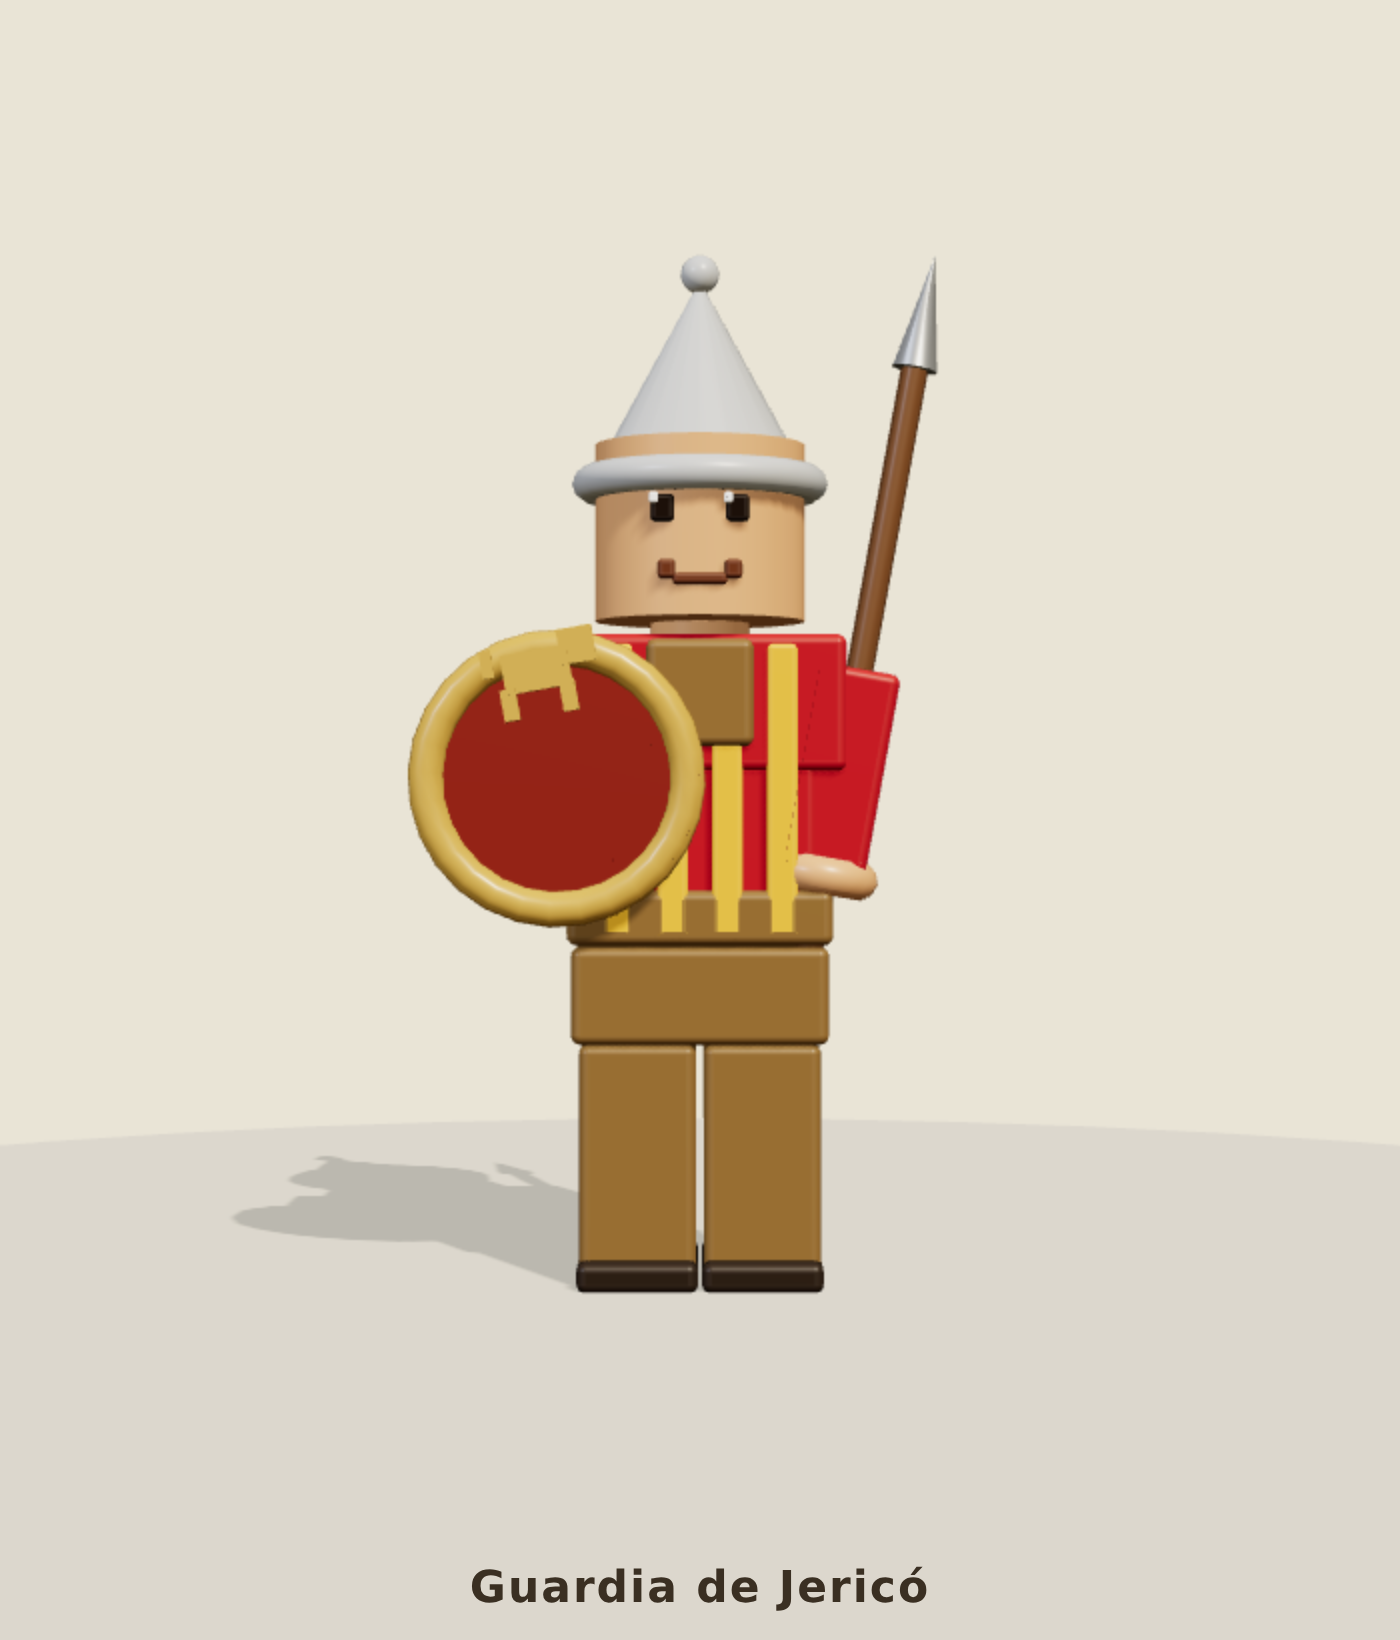
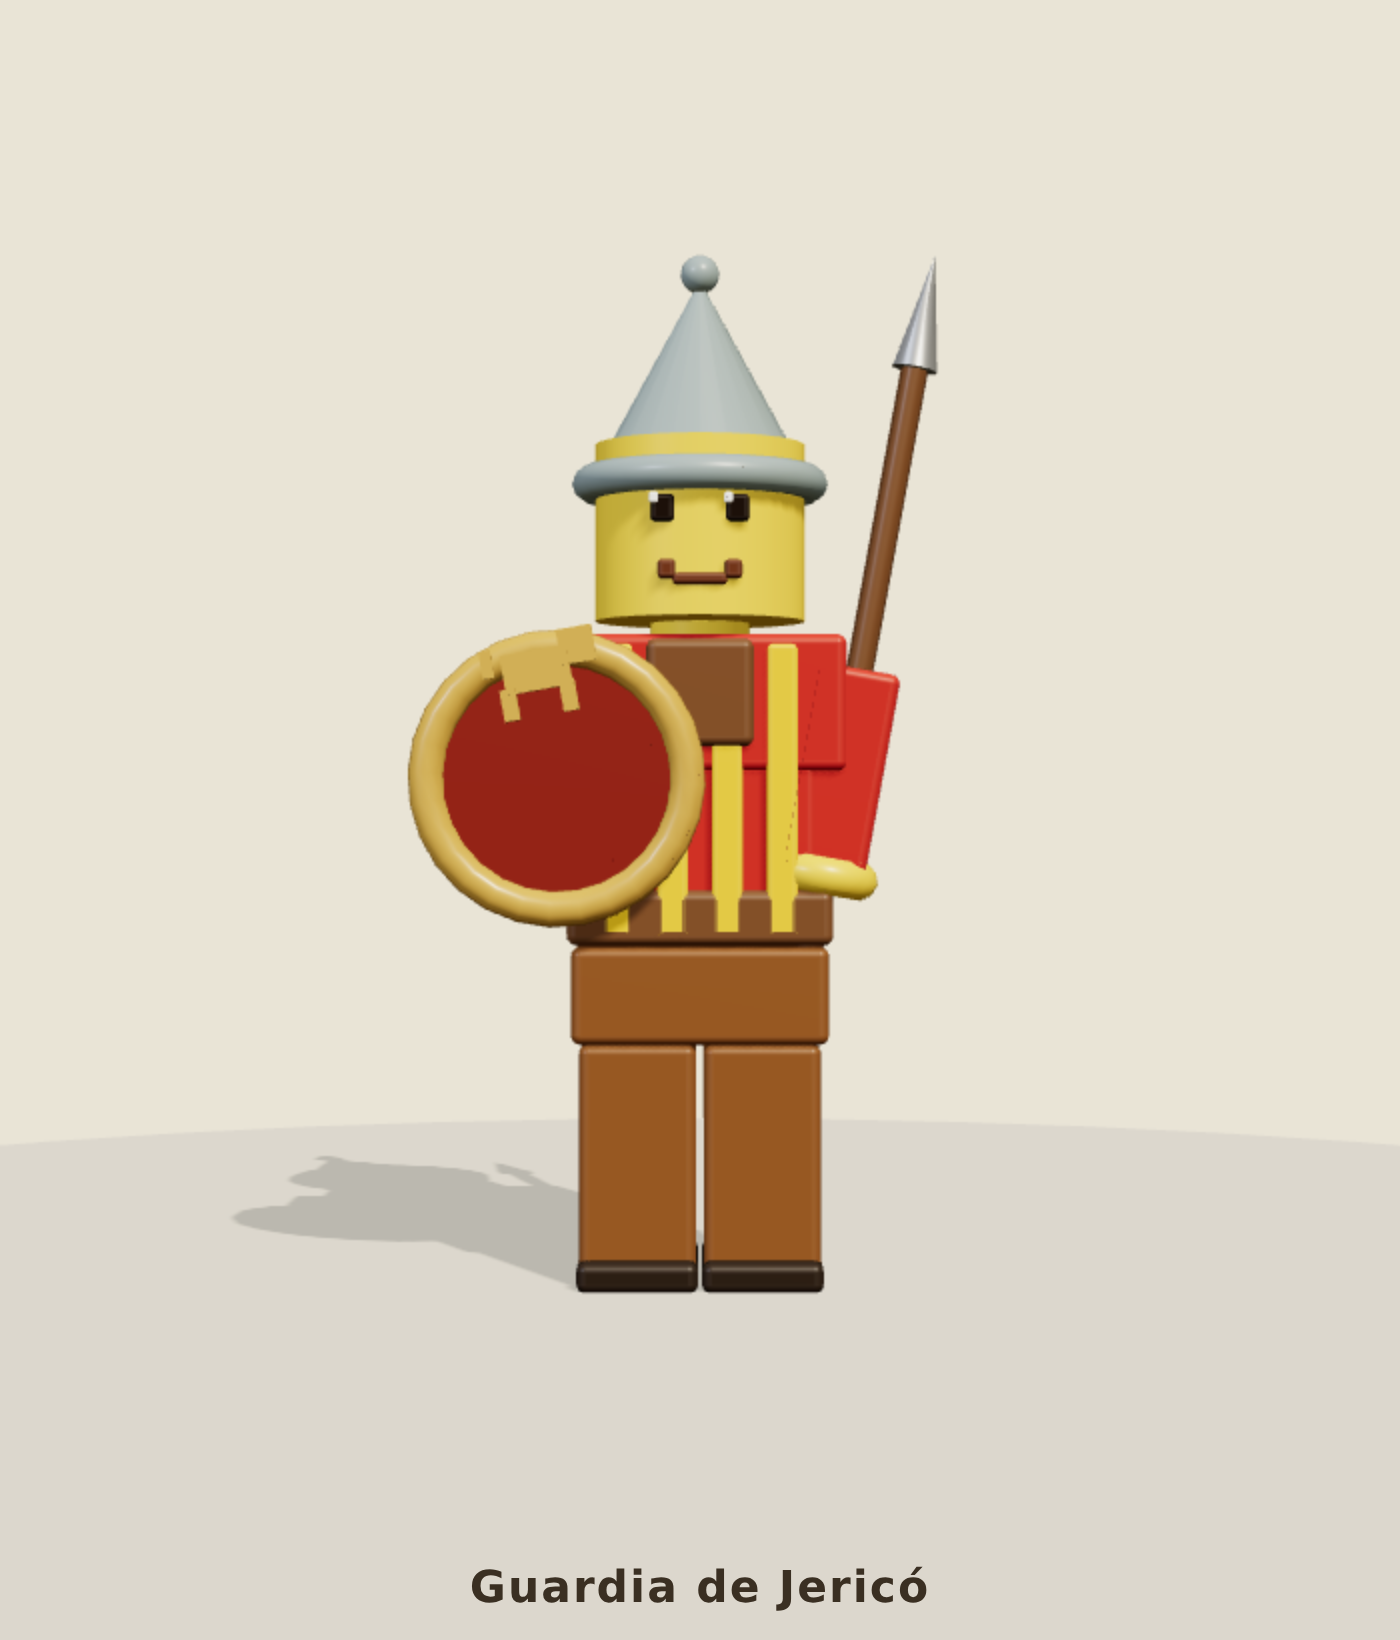
Personajes: pase de fidelidad con la biblia de la peli (HEX + frames)
Ajusta cada minifigura a referencias/personajes.md y los fotogramas:
- Yehoshúa: AZUL dominante (chaleco/pantalón azul, cinturón marrón), barba
  larga blanca-canosa, turbante cobalto con franja blanca. (Antes iba marrón.)
- Rahab: gris claro #D5D8DC + pelo plateado #E5E7E9; añade su CORDÓN ROJO
  CARMESÍ (#E74C3C) en banda diagonal (prop clave).
- Guardia común: rayas rojas/amarillas (#C0392B/#F1C40F), casco plateado
  #95A5A6, grebas marrones. Escudo con león + lanza.
- Jefe de guardia: armadura de bronce + CAPA NEGRA + penacho de plumas +
  bigote + ALABARDA DORADA (antes llevaba rayas por error).
- Sacerdote: turbante blanco (no mitra), barba negra, pectoral multicolor,
  SHOFAR DORADO.
- Beduino: turbante beige #F5CBA7, túnica oliva #7D6608, pantalones marrones.
- Rabino: traje azul marino #2C3E50 + camisa blanca y corbata azul, gafas
  cuadradas negras, barba gris #7F8C8D, kipá negra.
- Espía 2: gris asfalto #566573. Piel unificada #F4D03F.

Campos de skin nuevos: cord, tie, spearGold. No cambia la lógica del juego.

Claude-Session: https://claude.ai/code/session_01Fgry2hnwitkQ2wKLYbkPgZ

Changed region(s): [[0.3993, 0.1555, 0.5836, 0.4665], [0.43, 0.4976, 0.645, 0.5909]]

diff --git a/mundo-ladrillos/src/characters/MinifigureFactory.ts b/mundo-ladrillos/src/characters/MinifigureFactory.ts
@@ -55,24 +55,26 @@ export interface MinifigureSkin {
   lips?: number;              // color de los labios (boca femenina)
   skirt?: number;             // color de la falda / vestido acampanado
   skirtLong?: boolean;        // túnica larga hasta los tobillos (más humilde/época)
+  cord?: number;              // cordón/faja en banda diagonal (rojo carmesí de Rahab)
+  tie?: number;               // corbata sobre camisa blanca (rabino de traje)
+  spearGold?: boolean;        // lanza/alabarda dorada (jefe de guardia)
 }
 
-/** Yehoshúa: turbante cobalto con franjas blancas, barba blanca larga,
- *  túnica marrón claro, capa azul y bastón de madera. */
+/** Yehoshúa (según frame): AZUL dominante — chaleco/pantalón azul, cinturón
+ *  marrón, barba larga blanca-canosa, turbante cobalto y bastón. */
 export const YOSHUA_SKIN: MinifigureSkin = {
-  head: 0xf2c141,
-  torso: 0xbe9c6a,       // túnica marrón claro
-  belt: 0x6e4a2c,
-  legs: 0x8a6a3e,
-  arms: 0xbe9c6a,
-  hands: 0xf2c141,
-  headwear: 0x1c4f9c,    // turbante azul cobalto
+  head: 0xf4d03f,
+  torso: 0x1f618d,       // chaleco/túnica azul
+  belt: 0x6e4a2c,        // cinturón cuero oscuro
+  legs: 0x1f618d,        // pantalón azul
+  arms: 0x2c7bb0,        // mangas azul algo más claro
+  hands: 0xf4d03f,
+  headwear: 0x2980b9,    // turbante azul cobalto
   headStyle: 'turban',
-  turbanStripe: 0xf4efe4,
-  beard: 0xe8e4da,
+  turbanStripe: 0xf4efe4, // franjas blancas
+  beard: 0xbdc3c7,       // barba larga blanca/canosa
   beardStyle: 'long',
-  cape: 0x22467e,        // capa azul
-  emotion: 'happy',
+  emotion: 'neutral',    // líder mayor, solemne
   accessory: 'staff'
 };
 
@@ -91,17 +93,17 @@ export const SPY_SKIN: MinifigureSkin = {
   accessory: 'sword'
 };
 
-/** Espía 2 (ninja gris azulado): compañero. */
+/** Espía 2 (ninja gris asfalto #566573): compañero. */
 export const SPY2_SKIN: MinifigureSkin = {
-  head: 0xf2c141,
-  torso: 0x6b7684,
-  belt: 0x4a525e,
-  legs: 0x5a6472,
-  arms: 0x6b7684,
-  hands: 0xf2c141,
-  headwear: 0x545e6c,   // máscara gris azulada
+  head: 0xf4d03f,
+  torso: 0x566573,
+  belt: 0x424e59,
+  legs: 0x4c5964,
+  arms: 0x566573,
+  hands: 0xf4d03f,
+  headwear: 0x4b5560,   // máscara gris asfalto
   headStyle: 'ninja',
-  straps: 0x9aa7b5,
+  straps: 0x8b98a6,
   emotion: 'happy',
   accessory: 'sword'
 };
@@ -109,34 +111,35 @@ export const SPY2_SKIN: MinifigureSkin = {
 /** Rahab: mujer de rasgos suaves; melena plateada larga, vestido humilde con
  *  falda acampanada, cara amable. */
 export const RAHAB_SKIN: MinifigureSkin = {
-  head: 0xf4c98f,
-  torso: 0xd0d0d6,       // vestido gris claro humilde (fiel al brief)
-  belt: 0xbdbdc4,
-  legs: 0xcac9d0,
-  arms: 0xd0d0d6,
-  hands: 0xf4c98f,
-  headwear: 0xe2e5ec,    // pelo plateado (distinto del vestido)
+  head: 0xf4d03f,
+  torso: 0xd5d8dc,       // vestido gris claro humilde (#D5D8DC)
+  belt: 0xc2c5ca,
+  legs: 0xd5d8dc,
+  arms: 0xd5d8dc,
+  hands: 0xf4d03f,
+  headwear: 0xe5e7e9,    // pelo largo plateado (#E5E7E9)
   headStyle: 'longHair',
   emotion: 'happy',
   feminine: true,
   lips: 0xc26a63,
-  skirt: 0xd0d0d6,       // túnica larga hasta los tobillos
+  skirt: 0xd5d8dc,       // túnica larga
   skirtLong: true,
+  cord: 0xe74c3c,        // cordón rojo carmesí (prop clave)
   accessory: 'none'
 };
 
 /** Guardia de Jericó: casco cónico plateado, túnica de rayas rojas/amarillas,
  *  escudo redondo con león y lanza. */
 export const GUARD_SKIN: MinifigureSkin = {
-  head: 0xe0a878,
-  torso: 0xb62b2b,       // rojo
-  belt: 0x8a6a3a,
-  legs: 0x8a6a3a,
-  arms: 0xb62b2b,
-  hands: 0xe0a878,
-  headwear: 0xbfc2c4,    // casco plateado
+  head: 0xf4d03f,
+  torso: 0xc0392b,       // rojo (#C0392B)
+  belt: 0x7a5433,
+  legs: 0x8a5a2c,        // grebas de cuero marrón
+  arms: 0xc0392b,
+  hands: 0xf4d03f,
+  headwear: 0x95a5a6,    // casco plateado (#95A5A6)
   headStyle: 'coneHelmet',
-  tunicStripe: 0xf0b429, // rayas amarillas
+  tunicStripe: 0xf1c40f, // rayas amarillas (#F1C40F)
   emotion: 'stern',
   shield: 0xcaa14a,
   accessory: 'spear'
@@ -144,68 +147,70 @@ export const GUARD_SKIN: MinifigureSkin = {
 
 /** Jefe de guardia: casco con plumas negras, bigote marrón, rayas rojas/amarillas. */
 export const GUARD_CHIEF_SKIN: MinifigureSkin = {
-  head: 0xd89a68,
-  torso: 0xb62b2b,
-  belt: 0x5a3f22,
-  legs: 0x6b675e,
-  arms: 0xb62b2b,
-  hands: 0xd89a68,
+  head: 0xf4d03f,
+  torso: 0x87663c,       // peto de metal reforzado (bronce)
+  belt: 0x4a3a26,
+  legs: 0x4a4038,
+  arms: 0x87663c,
+  hands: 0xf4d03f,
   headwear: 0xa8adb0,    // casco metálico
   headStyle: 'plumeHelmet',
-  tunicStripe: 0xf0b429,
-  mustache: 0x5a3f22,    // bigote marrón
+  cape: 0x161616,        // capa negra
+  mustache: 0x3a2a1a,    // bigote marrón oscuro
   emotion: 'stern',
+  spearGold: true,       // alabarda dorada
   accessory: 'spear'
 };
 
 /** Sacerdote (Cohen): túnica blanca con pectoral, mitra blanca, barba negra, shofar. */
 export const PRIEST_SKIN: MinifigureSkin = {
-  head: 0xefc08a,
+  head: 0xf4d03f,
   torso: 0xf4efe4,       // túnica blanca
-  belt: 0xcaa14a,
+  belt: 0xe6e0d2,
   legs: 0xece7dc,
   arms: 0xf4efe4,
-  hands: 0xefc08a,
-  headwear: 0xf7f3ea,    // mitra blanca
-  headStyle: 'mitre',
-  beard: 0x2a221c,       // barba negra
+  hands: 0xf4d03f,
+  headwear: 0xf7f3ea,    // turbante sacerdotal blanco
+  headStyle: 'turban',
+  beard: 0x2a221c,       // barba negra poblada
   beardStyle: 'long',
-  pectoral: 0xcaa14a,
+  pectoral: 0xcaa14a,    // pectoral multicolor
   emotion: 'neutral',
-  accessory: 'shofar'
+  accessory: 'shofar'    // shofar dorado
 };
 
 /** Beduino cómico: turbante beige, túnica verde oliva con remiendos, barba negra,
  *  cejas de preocupación. */
 export const BEDOUIN_SKIN: MinifigureSkin = {
-  head: 0xd7a06a,
-  torso: 0x6b7233,       // verde oliva
-  belt: 0x4a4a24,
-  legs: 0x5a5a2c,
-  arms: 0x6b7233,
-  hands: 0xd7a06a,
-  headwear: 0xd9c6a0,    // turbante beige
+  head: 0xf4d03f,
+  torso: 0x7d6608,       // verde oliva descolorido (#7D6608)
+  belt: 0x5a4028,
+  legs: 0x5a4028,        // pantalones marrones
+  arms: 0x7d6608,
+  hands: 0xf4d03f,
+  headwear: 0xf5cba7,    // turbante beige/arena (#F5CBA7)
   headStyle: 'turban',
-  beard: 0x2a221c,       // barba negra
+  beard: 0x2a221c,       // barba negra desaliñada
   beardStyle: 'short',
-  patches: 0x8a7a3a,     // remiendos
-  emotion: 'worried',
+  patches: 0x9a7a3a,     // remiendos
+  emotion: 'worried',    // cejas de preocupación
   accessory: 'none'
 };
 
 /** Rabino director: traje azul marino, gafas negras cuadradas, barba gris corta, kipá. */
 export const RABBI_SKIN: MinifigureSkin = {
-  head: 0xe8b988,
-  torso: 0x1c2a4a,       // azul marino
-  belt: 0x141e33,
-  legs: 0x1c2a4a,
-  arms: 0x1c2a4a,
-  hands: 0xe8b988,
-  headwear: 0x141a2c,    // kipá oscura
+  head: 0xf4d03f,
+  torso: 0x2c3e50,       // traje azul marino (#2C3E50)
+  belt: 0x22303f,
+  legs: 0x2c3e50,
+  arms: 0x2c3e50,
+  hands: 0xf4d03f,
+  headwear: 0x14140f,    // kipá negra
   headStyle: 'kippah',
-  beard: 0x9a958c,       // barba gris corta
+  beard: 0x7f8c8d,       // barba gris corta (#7F8C8D)
   beardStyle: 'short',
-  glasses: 0x14140f,     // gafas negras
+  glasses: 0x14140f,     // gafas negras cuadradas
+  tie: 0x2b4a7a,         // camisa blanca + corbata azul
   emotion: 'happy',
   accessory: 'none'
 };
@@ -351,6 +356,21 @@ export class Minifigure {
     this.root.add(this.box(1.5, 0.7, 0.86, s.torso, 0, 3.0, 0)); // hombros anchos
     this.root.add(this.box(1.36, 0.28, 0.9, s.belt, 0, 1.9, 0)); // cinturón
     this.root.add(this.box(0.55, 0.55, 0.2, s.belt, 0, 3.05, 0.38)); // cuello en V
+
+    // Camisa blanca + corbata (rabino de traje)
+    if (s.tie !== undefined) {
+      this.root.add(this.box(0.5, 0.78, 0.16, 0xf4efe4, 0, 2.86, 0.4)); // camisa
+      this.root.add(this.box(0.14, 0.62, 0.06, s.tie, 0, 2.82, 0.49));  // corbata
+    }
+
+    // Cordón/faja en banda diagonal (cordón rojo carmesí de Rahab)
+    if (s.cord !== undefined) {
+      const band = this.box(0.15, 1.9, 0.2, s.cord, 0.06, 2.5, 0.42);
+      band.rotation.z = 0.35;
+      this.root.add(band);
+      const loop = new THREE.TorusGeometry(0.15, 0.05, 8, 16);
+      this.root.add(this.mesh(loop, s.cord, 0.44, 1.72, 0.42)); // rollo colgando en la cadera
+    }
 
     // Falda / vestido acampanado (rasgo fem): tronco de cono sobre la cadera.
     // Las piernas asoman y siguen balanceándose por debajo del bajo.
@@ -580,7 +600,7 @@ export class Minifigure {
     const acc = s.accessory ?? 'sword';
     if (acc === 'sword') this.addSword();
     else if (acc === 'staff') this.addStaff();
-    else if (acc === 'spear') this.addSpear();
+    else if (acc === 'spear') this.addSpear(s.spearGold === true);
     else if (acc === 'shofar') this.addShofar();
     if (s.shield !== undefined) this.addShield(s.shield);
   }
@@ -608,19 +628,27 @@ export class Minifigure {
     this.armR.add(shaft, knob);
   }
 
-  /** Lanza de la guardia en la mano derecha. */
-  private addSpear(): void {
-    const shaft = new THREE.Mesh(new THREE.CylinderGeometry(0.07, 0.07, 4.0, 8), this.plastic.get(0x7a5433));
+  /** Lanza de la guardia (o alabarda DORADA del jefe) en la mano derecha. */
+  private addSpear(gold = false): void {
+    const shaftCol = gold ? 0x8a6a2a : 0x7a5433;
+    const shaft = new THREE.Mesh(new THREE.CylinderGeometry(0.07, 0.07, 4.0, 8), this.plastic.get(shaftCol));
     shaft.position.set(0, -0.4, 0.2); shaft.castShadow = true;
-    const steel = new THREE.MeshStandardMaterial({ color: 0xcfd3d6, roughness: 0.3, metalness: 0.7 });
-    const point = new THREE.Mesh(new THREE.ConeGeometry(0.12, 0.6, 10), steel);
+    const metal = gold
+      ? new THREE.MeshStandardMaterial({ color: 0xd4af37, roughness: 0.32, metalness: 0.85 })
+      : new THREE.MeshStandardMaterial({ color: 0xcfd3d6, roughness: 0.3, metalness: 0.7 });
+    const point = new THREE.Mesh(new THREE.ConeGeometry(0.12, 0.6, 10), metal);
     point.position.set(0, 1.9, 0.2); point.castShadow = true;
     this.armR.add(shaft, point);
+    if (gold) { // cuchilla lateral de alabarda
+      const axe = new THREE.Mesh(new THREE.BoxGeometry(0.4, 0.5, 0.08), metal);
+      axe.position.set(0.28, 1.55, 0.2); axe.castShadow = true;
+      this.armR.add(axe);
+    }
   }
 
-  /** Shofar (cuerno curvo) del sacerdote, alzado en la mano derecha. */
+  /** Shofar (cuerno curvo DORADO) del sacerdote, alzado en la mano derecha. */
   private addShofar(): void {
-    const horn = this.plastic.get(0xe8dcc0);
+    const horn = this.plastic.get(0xc9a24a);
     // Caña que sube y campana acampanada al final: silueta de cuerno.
     const body = new THREE.Mesh(new THREE.CylinderGeometry(0.07, 0.17, 1.15, 12), horn);
     body.rotation.x = -1.2; body.position.set(0.08, -0.85, 0.5); body.castShadow = true;
